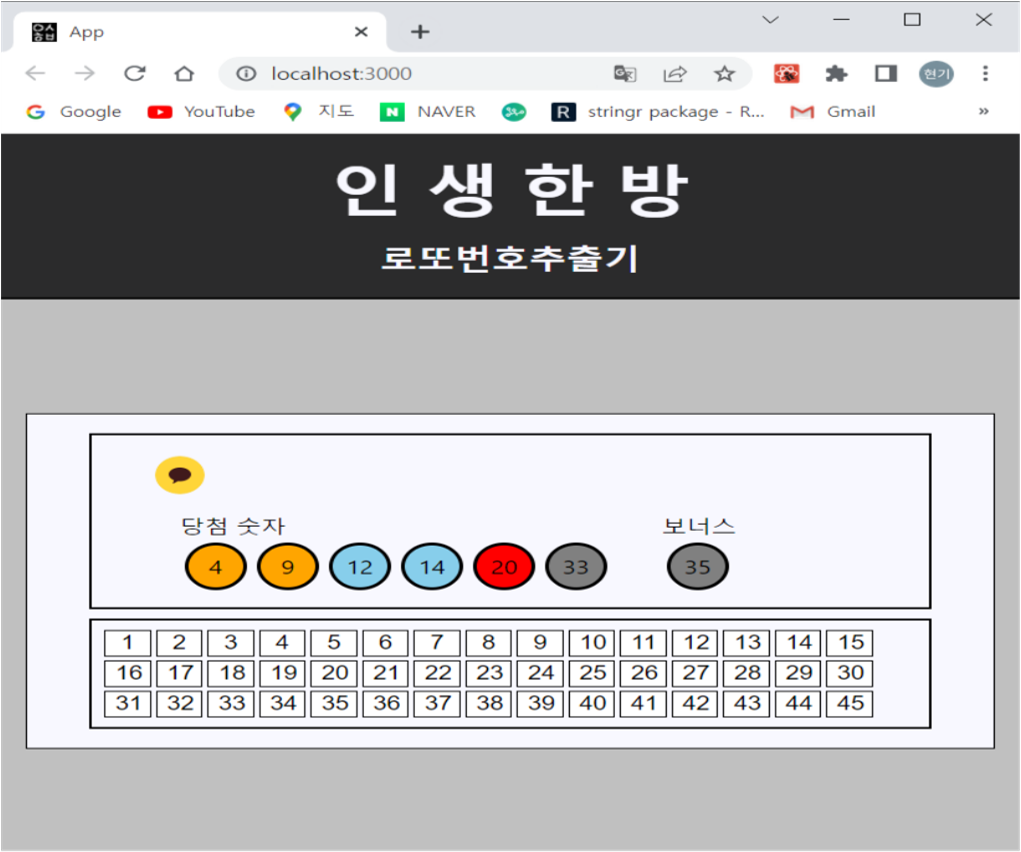
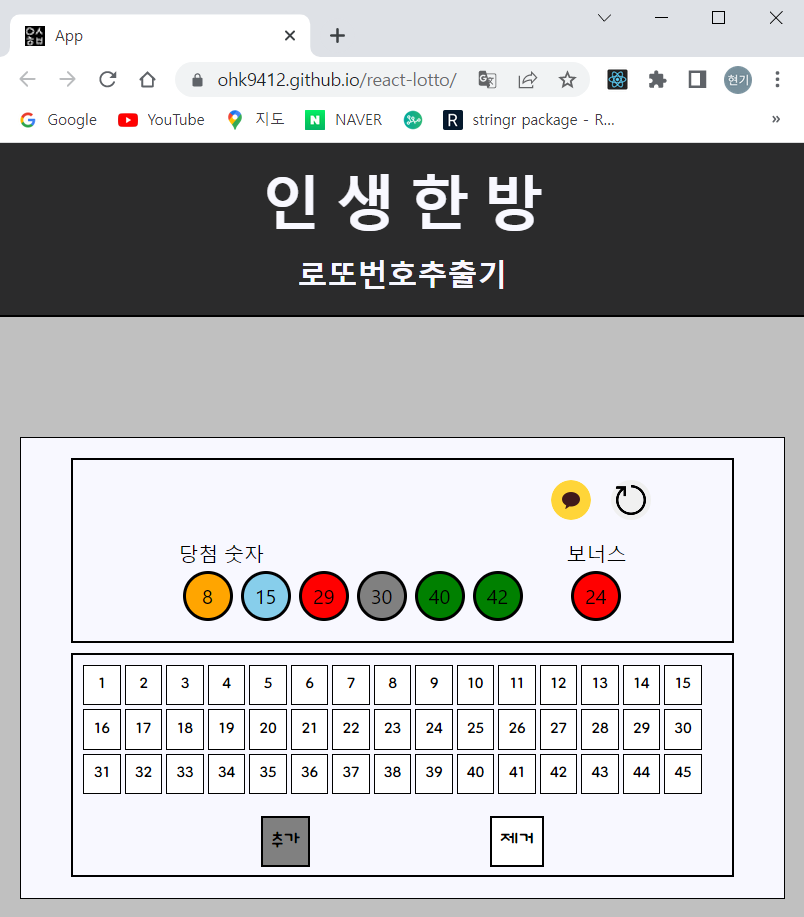
react page update

diff --git a/src/components/reactProject/reactProject.jsx b/src/components/reactProject/reactProject.jsx
@@ -18,9 +18,10 @@ const ReactProject = (props) => {
                 " 리액트를 이용해 간단하게 만든 로또 번호 추출 웹 "
                 </h4>
                 <p className={styles.script}>
-                번호를 버튼으로 만들어 클릭하는 횟수에 따라 다르게 반응하도록 했습니다.<br />
-                한 번 눌렷을때 는 검은 색으로 바뀌면서 해당 번호를 숫자 리스트에 포함시키고
-                두 번 눌렷을때 붉은 색으로 변하며 해당 번호를 숫자 리스트에서 제거합니다.<br />
+                번호를 버튼으로 만들어 숫자 리스트에 추가 제거를 할 수 있게 했습니다.<br />
+                추가 버튼을 눌렷을때는 검은 색으로 바뀌면서 해당 번호를 숫자 리스트에 포함시키고
+                제거 버튼을 눌렷을때 붉은 색으로 변하며 해당 번호를 숫자 리스트에서 제거합니다.<br />
+                리셋 버튼을 추가해 추가 및 제거를 지정해둔 번호들을 초기화 시킬 수 있게 만들었고
                 카카오 api를 이용해 번호를 카카오톡으로 공유할 수 있습니다.
                 </p>
                 <div className={styles.buttons}>

diff --git a/src/components/home/home.jsx b/src/components/home/home.jsx
@@ -9,9 +9,9 @@ const Home = (props) => {
                 </h2>
             <div>
                 <div className={styles.abme}>
-                <img 
-                    className={styles.img} 
-                    src={process.env.PUBLIC_URL + '/3.jpg'} 
+                <img
+                    className={styles.img}
+                    src={process.env.PUBLIC_URL + '/3.jpg'}
                     alt='myphoto'
                 />
                 <p className={styles.name}>프론트엔드를 꿈꾸는 개발자<br /> 오현기</p>
@@ -52,7 +52,6 @@ const Home = (props) => {
                         <h5>JavaScript</h5>
                         <p>react</p>
                         <p>react-hook</p>
-
                     </div>
                     <div className={styles.content}>
                         <h5>ETC</h5>
@@ -63,7 +62,6 @@ const Home = (props) => {
                     <div></div>
                 </div>
             </div>
-            
         </div>
     )
 };
